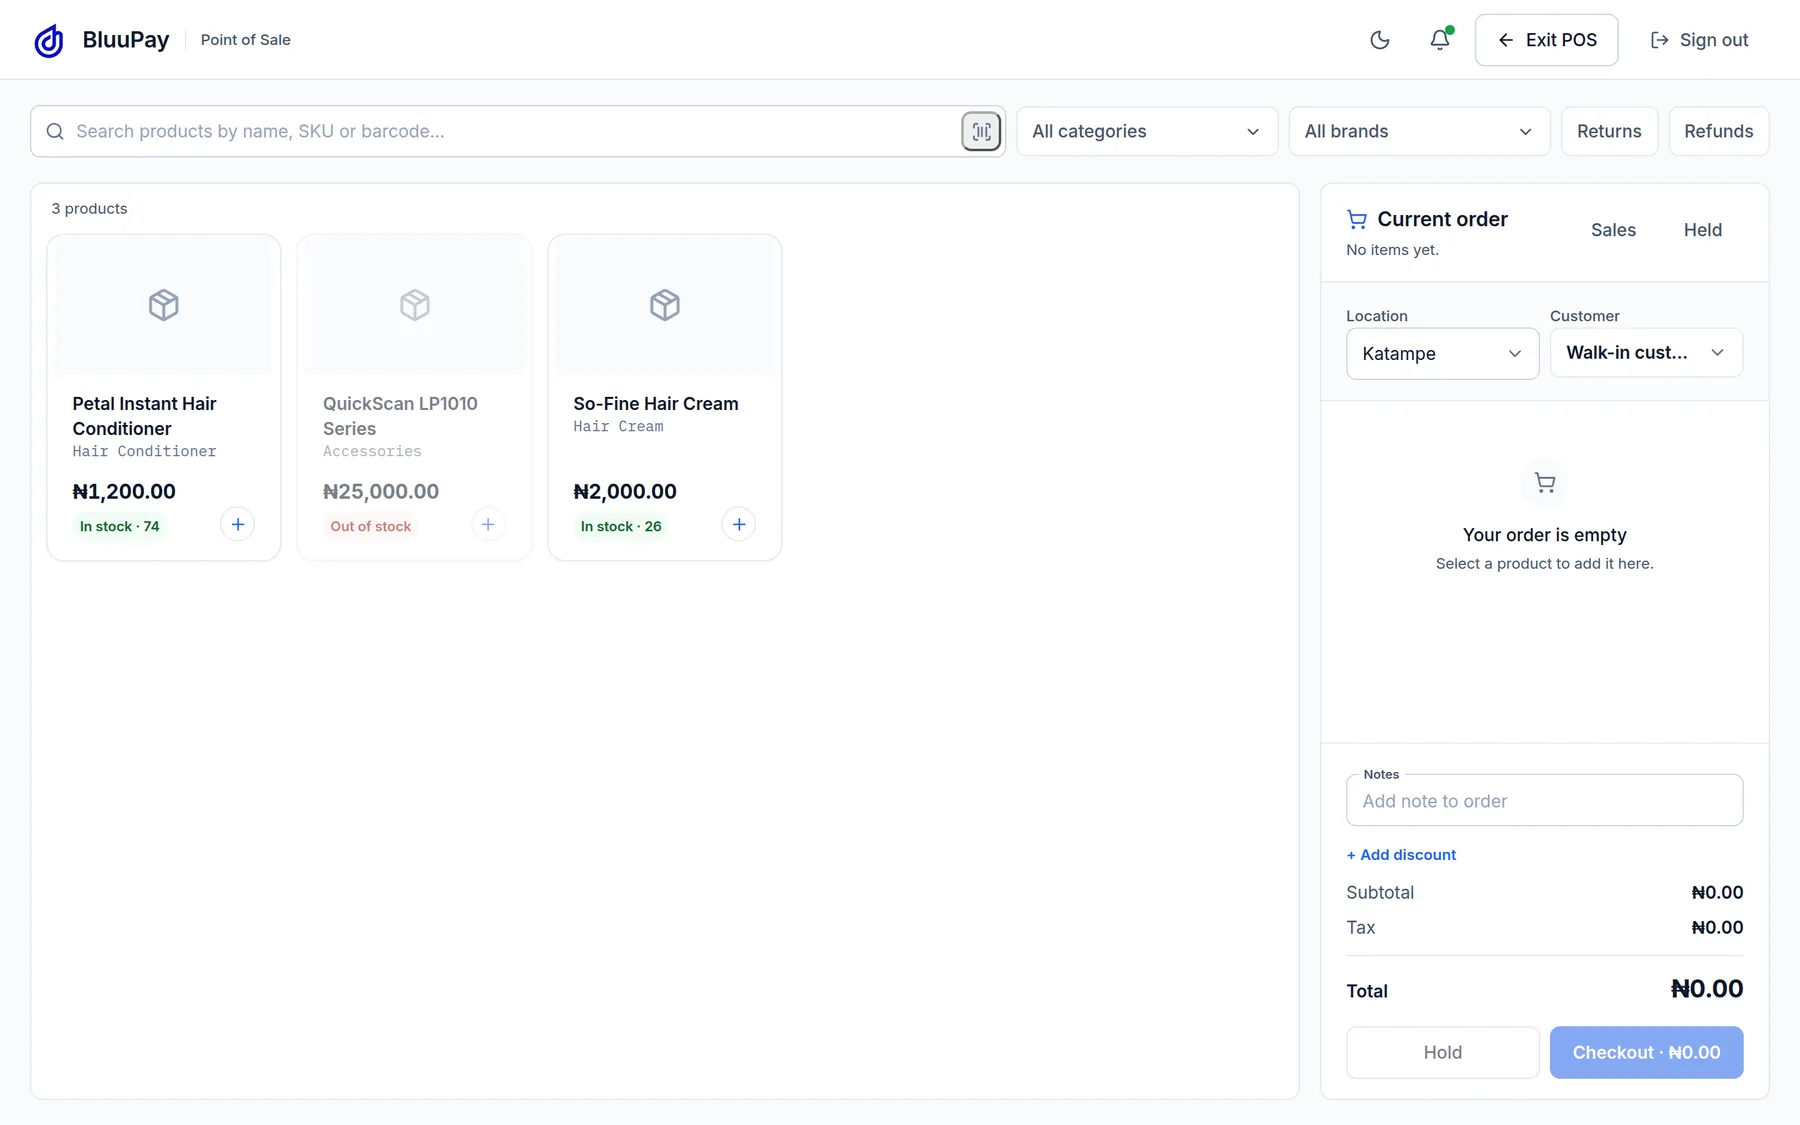
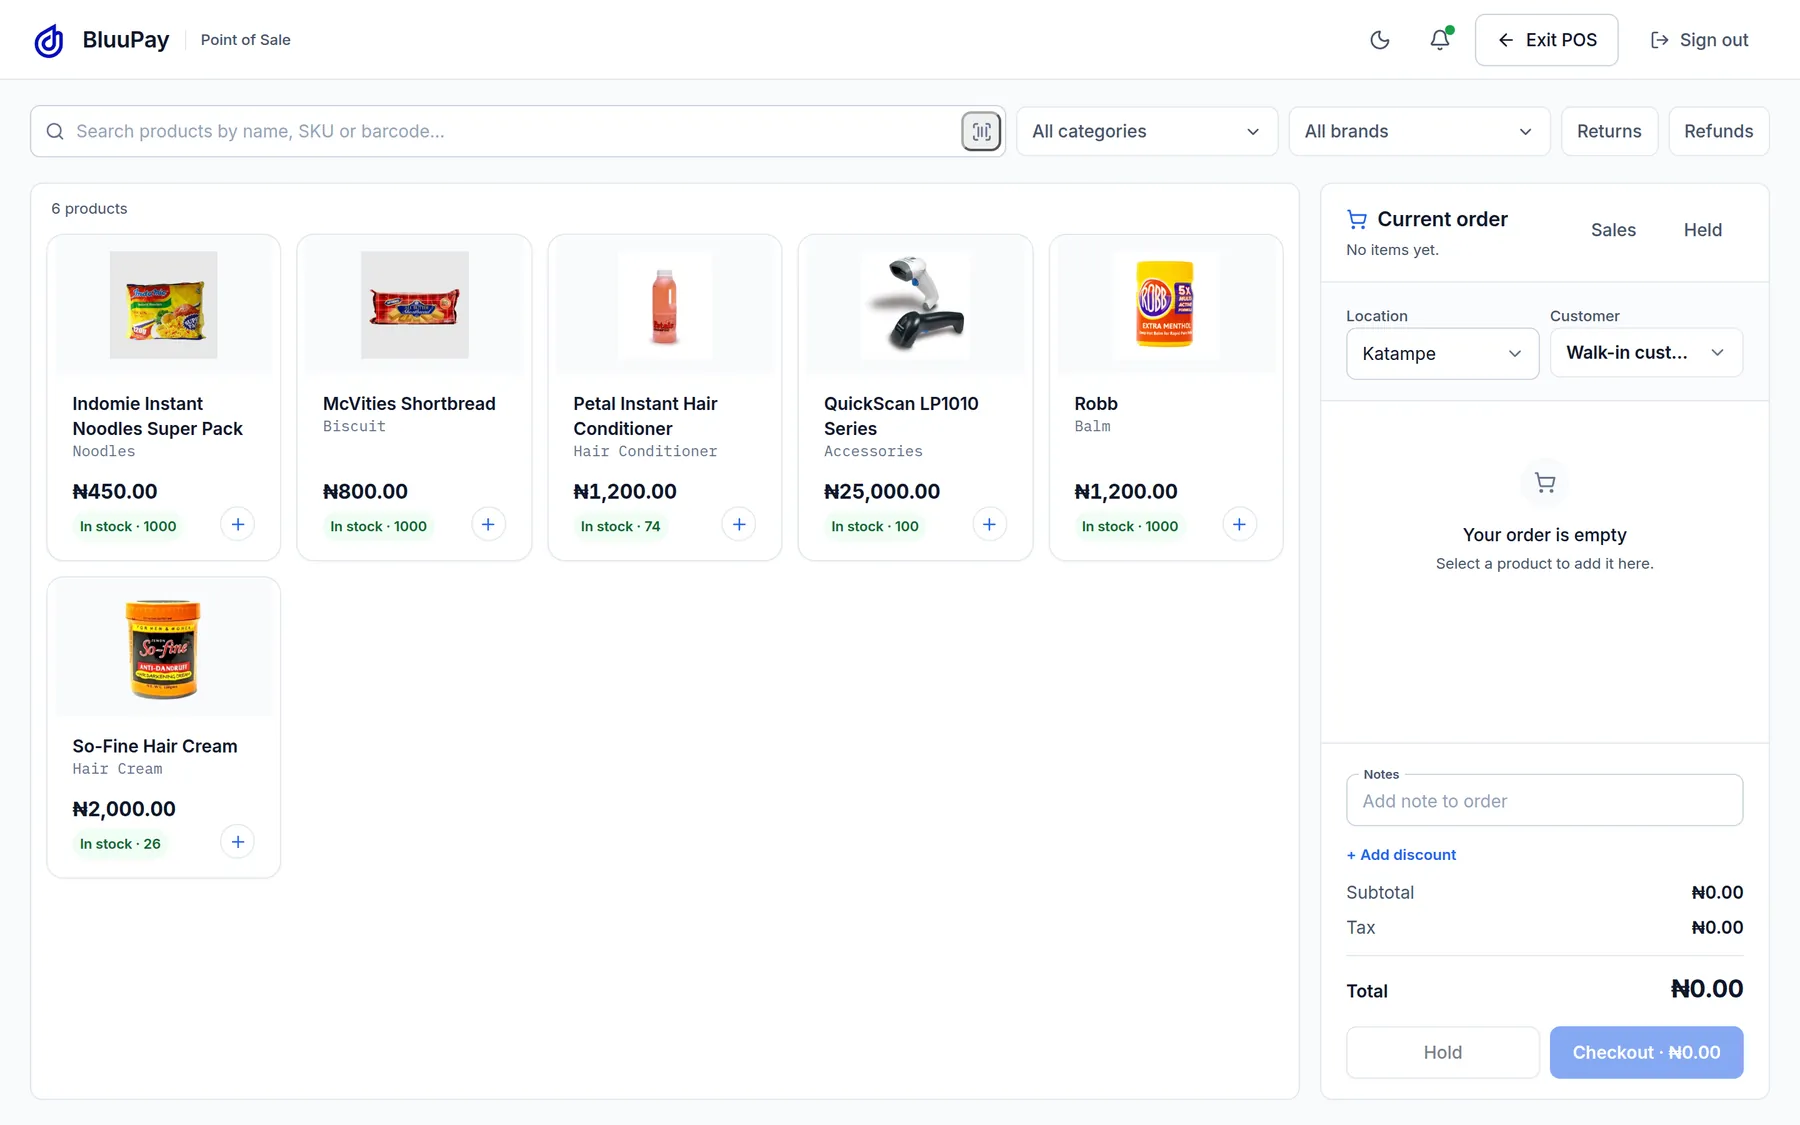
Refresh the marketing screenshots from the live dashboard.
Replace the point of sale, products, and sales images, and show phone-width menu, point of sale, and product screens on the mobile page.

diff --git a/web/src/components/ProductStage.tsx b/web/src/components/ProductStage.tsx
@@ -9,7 +9,7 @@ const shots = [
     height: 1125,
     title: "Point of sale",
     body: "Search the shelf, see the price and the stock, and build the order. The order on this screen is empty.",
-    alt: "BluuPay point of sale with hair products, prices, stock counts, and an empty current order.",
+    alt: "BluuPay point of sale with product photos, prices, stock counts, and an empty current order.",
   },
   {
     id: "products",
@@ -17,8 +17,8 @@ const shots = [
     width: 1800,
     height: 1125,
     title: "Products",
-    body: "The catalogue lists each product with its price and how many are in stock.",
-    alt: "BluuPay product catalogue with prices and stock counts for hair products.",
+    body: "The catalogue lists each product with its photo, price, and how many are in stock.",
+    alt: "BluuPay product catalogue with photos, prices, and stock counts.",
   },
   {
     id: "sales",
@@ -28,6 +28,36 @@ const shots = [
     title: "Sales",
     body: "Sales insights show today, this week, and this month after returns and refunds.",
     alt: "BluuPay sales insights with net sales for today, this week, and this month.",
+  },
+] as const;
+
+const phones = [
+  {
+    id: "menu",
+    src: "/product/mobile-menu.webp",
+    width: 900,
+    height: 1948,
+    title: "Menu",
+    body: "Sales, inventory, banking, expenses, tax, and settings open from the phone.",
+    alt: "BluuPay mobile menu open beside sales insights, listing point of sale, orders, customers, payments, and the other sections.",
+  },
+  {
+    id: "mobile-pos",
+    src: "/product/mobile-pos.webp",
+    width: 900,
+    height: 1948,
+    title: "Point of sale",
+    body: "Search the shelf on the phone, then add the product to the order.",
+    alt: "BluuPay point of sale on a phone, with product photos, prices, and stock counts.",
+  },
+  {
+    id: "mobile-products",
+    src: "/product/mobile-products.webp",
+    width: 900,
+    height: 1948,
+    title: "Products",
+    body: "The same catalogue, with photos, prices, and stock, on the phone.",
+    alt: "BluuPay products screen on a phone, with photos, prices, and stock counts.",
   },
 ] as const;
 
@@ -91,5 +121,34 @@ export function ProductGallery({ include = ["pos", "products", "sales"] }: { inc
         </ul>
       </div>
     </section>
+  );
+}
+
+export function MobileShowcase() {
+  return (
+    <ul className="grid items-start gap-6 sm:grid-cols-3">
+      {phones.map((phone, index) => (
+        <li key={phone.id}>
+          <figure className={frame}>
+            <Image
+              src={phone.src}
+              alt={phone.alt}
+              width={phone.width}
+              height={phone.height}
+              priority={index === 0}
+              sizes="(min-width: 640px) 30vw, 100vw"
+              className="h-auto w-full"
+            />
+            <figcaption className="border-t border-line px-4 py-3">
+              <span className="flex items-center gap-2 text-sm font-semibold">
+                <Mark name={phone.title} className="h-4 w-4 text-blue" />
+                {phone.title}
+              </span>
+              <span className="mt-1 block text-sm leading-6 text-muted">{phone.body}</span>
+            </figcaption>
+          </figure>
+        </li>
+      ))}
+    </ul>
   );
 }

diff --git a/web/src/app/(site)/mobile/page.tsx b/web/src/app/(site)/mobile/page.tsx
@@ -1,6 +1,6 @@
 import Link from "next/link";
 import { JsonLd } from "@/components/JsonLd";
-import { ProductStage } from "@/components/ProductStage";
+import { MobileShowcase } from "@/components/ProductStage";
 import { Crumbs, CtaBand } from "@/components/Sections";
 import { breadcrumbSchema } from "@/lib/schema";
 import { Mark } from "@/components/Icons";
@@ -19,8 +19,8 @@ export default function MobilePage() {
     <>
       <JsonLd data={breadcrumbSchema("Mobile", "/mobile")} />
       <section className="hero-wash border-b border-line bg-white">
-        <div className="mx-auto grid max-w-6xl items-center gap-12 px-4 py-14 lg:grid-cols-2 lg:py-20">
-          <header className="grid gap-5">
+        <div className="mx-auto max-w-6xl px-4 py-14 lg:py-20">
+          <header className="grid max-w-2xl gap-5">
             <Crumbs current="Mobile" />
             <p className="text-sm font-semibold uppercase tracking-[0.16em] text-blue">Mobile</p>
             <h1 className="text-4xl font-semibold tracking-tight text-balance sm:text-6xl">Sell from the phone you already have</h1>
@@ -28,7 +28,9 @@ export default function MobilePage() {
               The BluuPay mobile app is available to merchants today. Record the sale, take the payment, and check stock and profit without a terminal.
             </p>
           </header>
-          <ProductStage />
+          <div className="mt-10">
+            <MobileShowcase />
+          </div>
         </div>
       </section>
       <div className="bg-paper">

diff --git a/web/src/components/Icons.tsx b/web/src/components/Icons.tsx
@@ -26,6 +26,13 @@ const marks: Record<string, ReactNode> = {
       <path d="M11 17.5h2" />
     </>
   ),
+  menu: (
+    <>
+      <path d="M4 7h16" />
+      <path d="M4 12h16" />
+      <path d="M4 17h16" />
+    </>
+  ),
   pos: (
     <>
       <rect x="3" y="4" width="18" height="12" rx="2" />
@@ -266,6 +273,7 @@ const aliases: Record<string, string> = {
   "Run the shop": "boxes",
   Grow: "chart",
   "Manage and grow": "chart",
+  Menu: "menu",
   "Point of sale": "pos",
   Payments: "transfer",
   "Mobile app": "phone",
